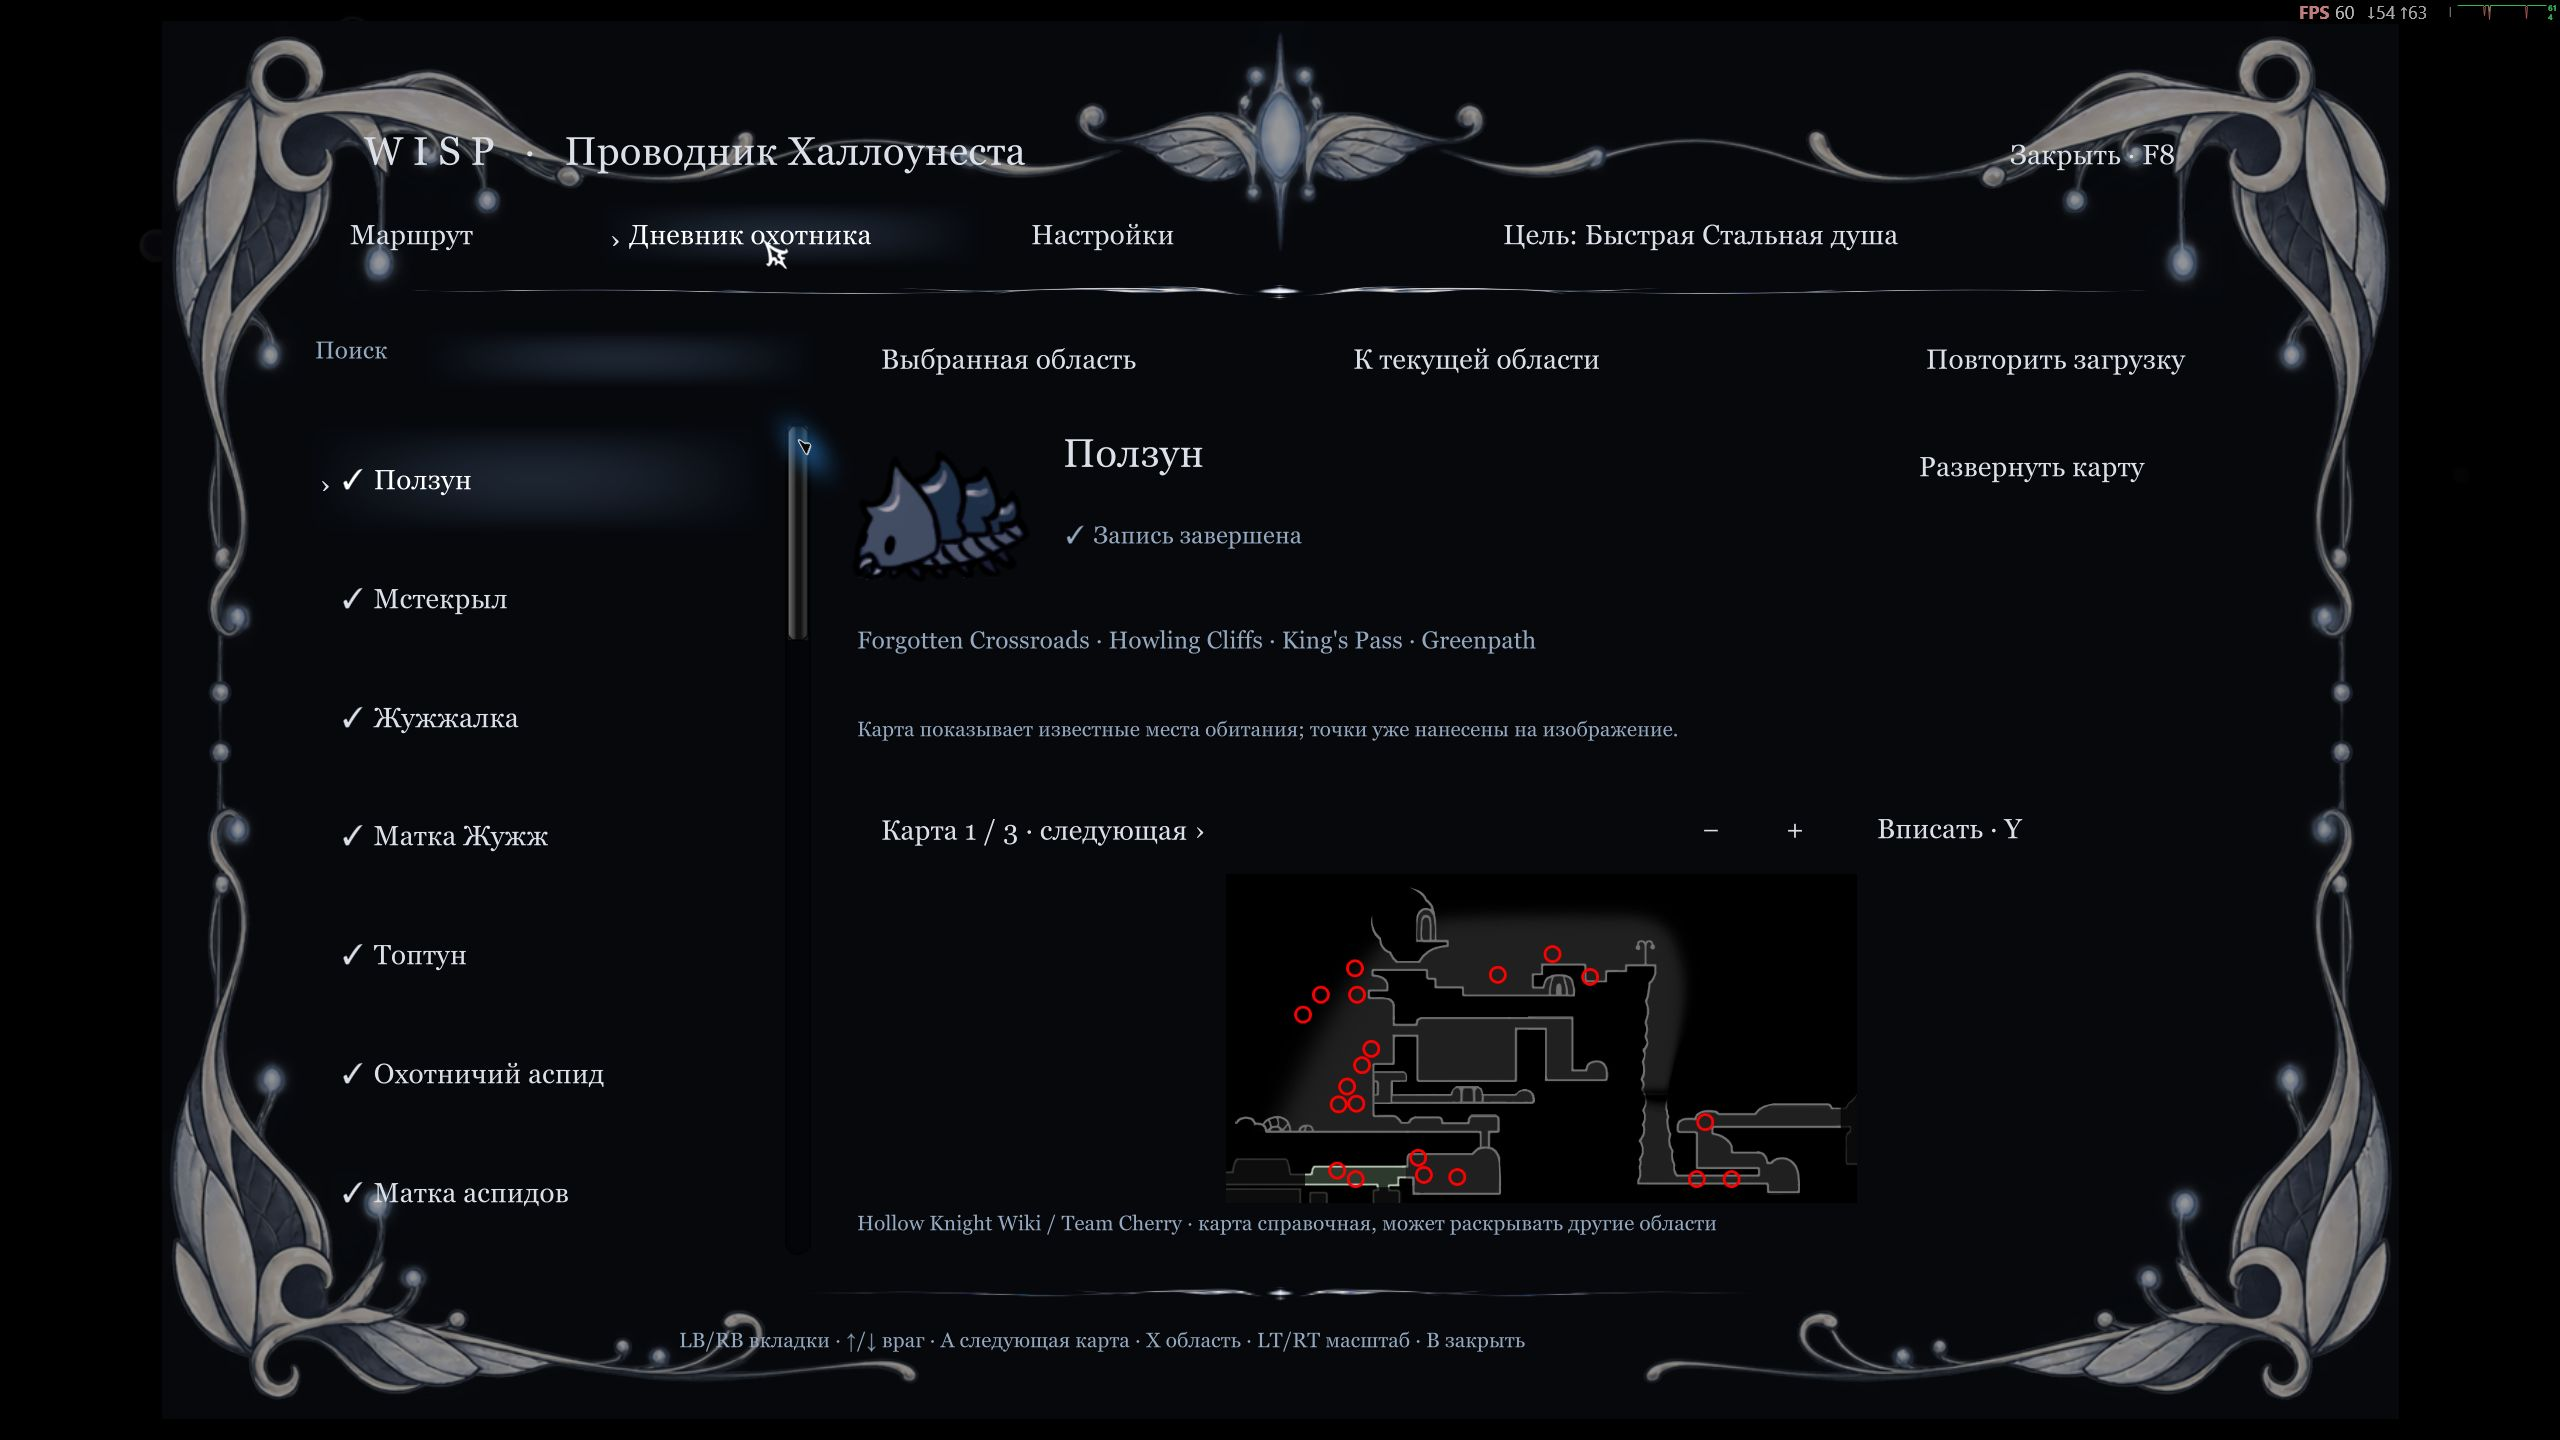
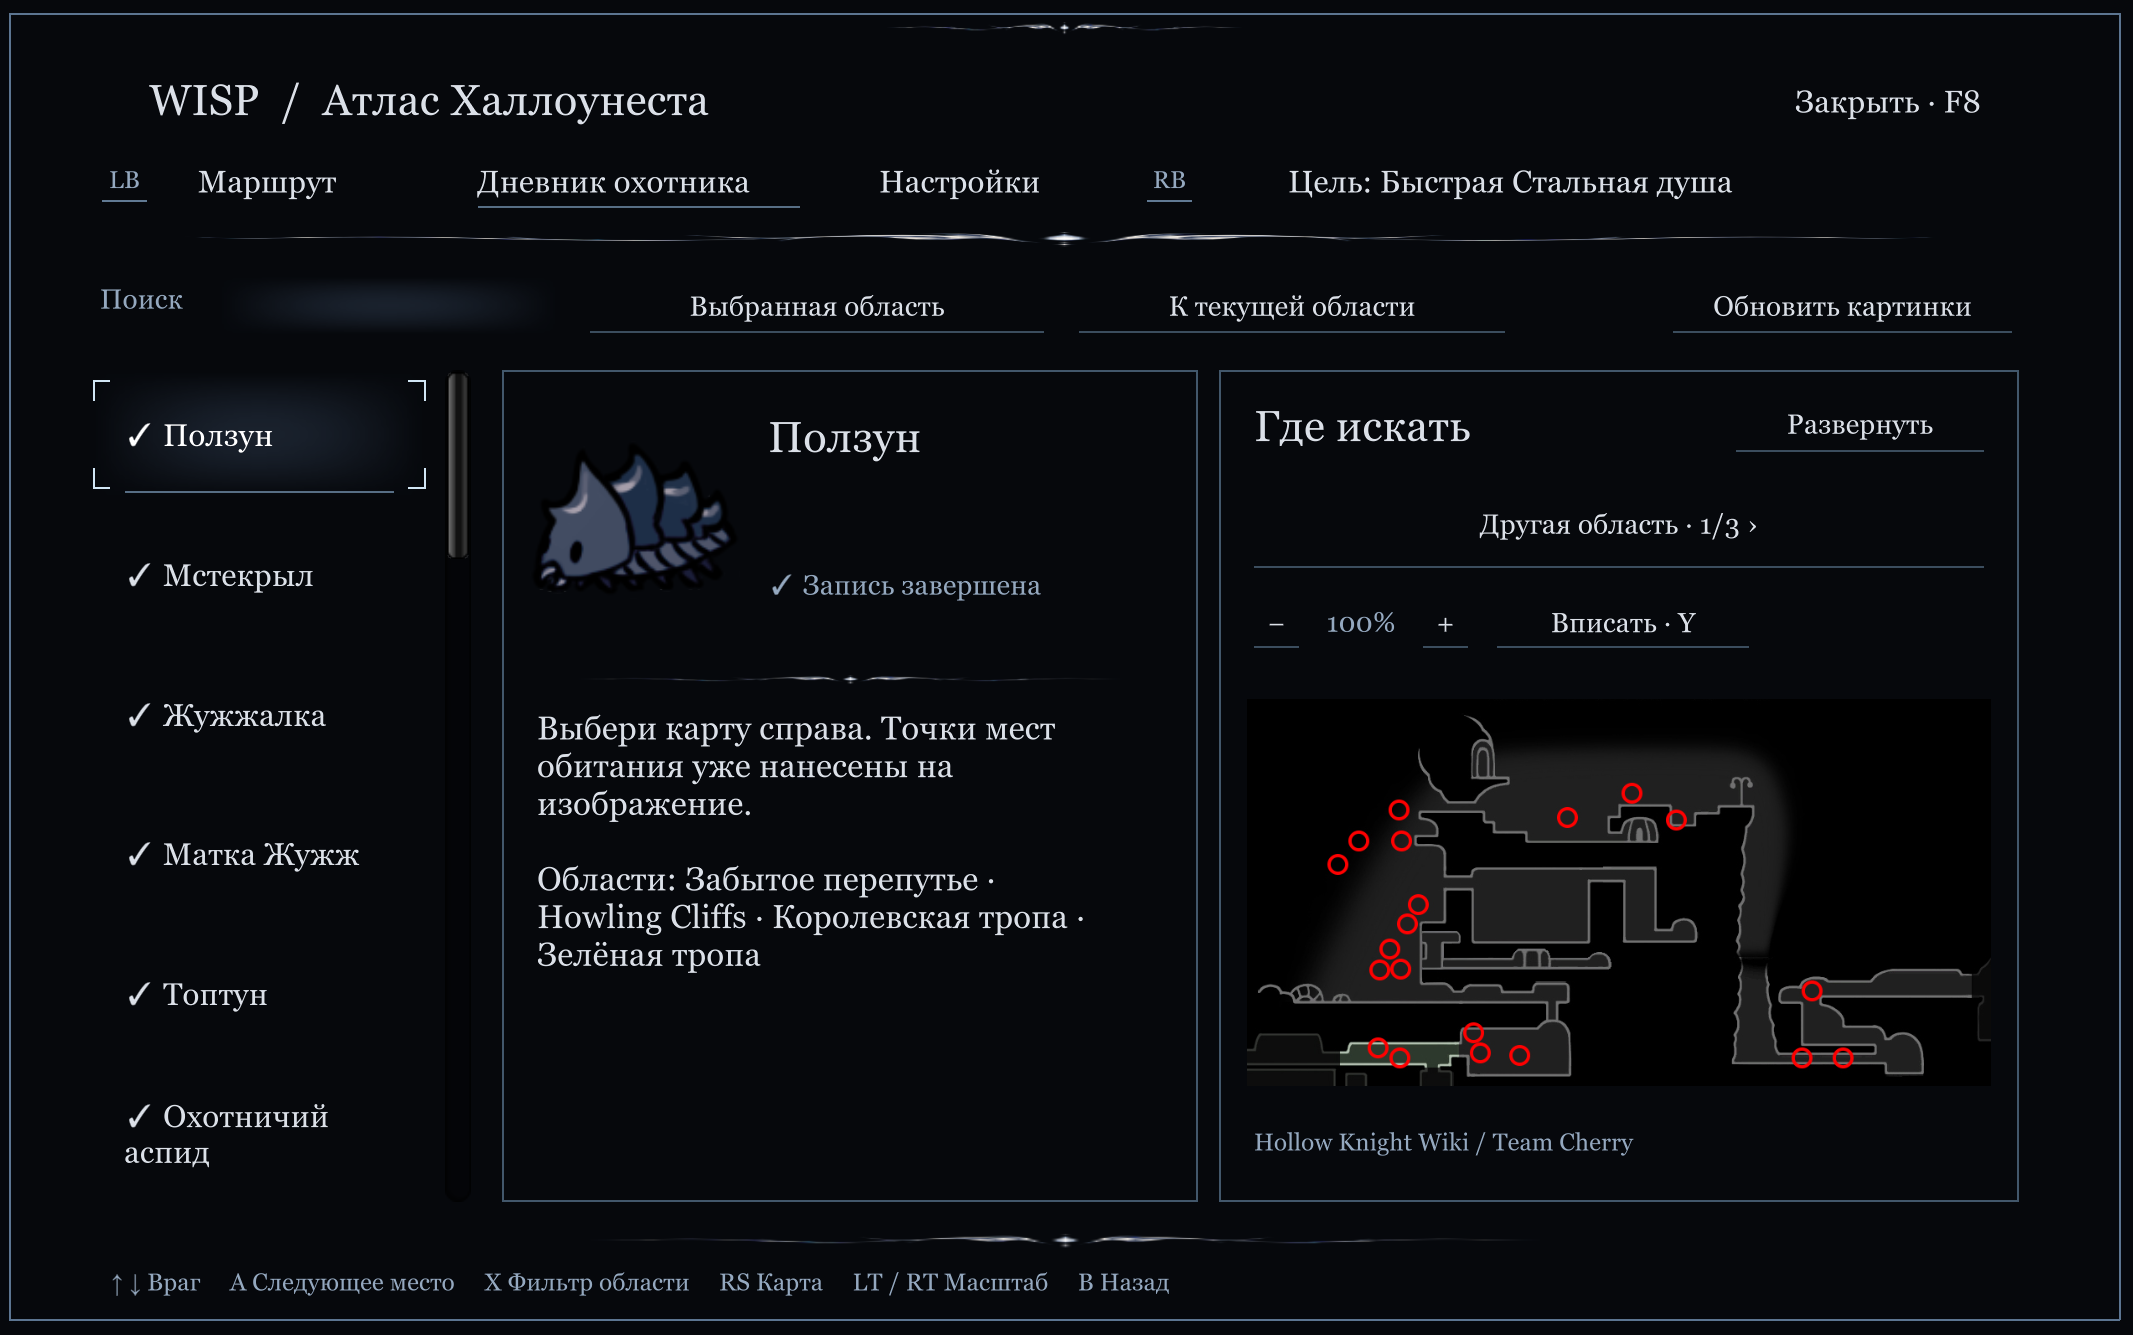
Prepare alpha.2 release with current gameplay screenshots and captions

diff --git a/src/Wisp/WispMod.cs b/src/Wisp/WispMod.cs
@@ -31,7 +31,7 @@ namespace Wisp
             guide.Initialize(this, Catalog.Load());
             patches = new Harmony("com.alexandr-fredrix.wisp");
             patches.PatchAll(typeof(WispMod).Assembly);
-            Logger.LogInfo("Wisp 0.3.0-alpha.1 / Unity 6. F8 or both sticks opens the guide. No input backend changes.");
+            Logger.LogInfo("Wisp 0.3.0-alpha.2 / Unity 6. F8 or both sticks opens the guide. No input backend changes.");
         }
         private T Read<T>(string path) where T : class
         {

diff --git a/README.md b/README.md
@@ -1,9 +1,9 @@
 <h1 align="center">Wisp</h1>
 <p align="center">Твой проводник по Халлоунесту — прямо в игре.</p>
-<p align="center"><a href="https://github.com/Alexandr-Fredrix/Wisp/releases/tag/v0.3.0-alpha.1"><img alt="Последний выпуск" src="https://img.shields.io/badge/Wisp-0.3.0--alpha.1-738fa8"></a></p>
+<p align="center"><a href="https://github.com/Alexandr-Fredrix/Wisp/releases/tag/v0.3.0-alpha.2"><img alt="Последний выпуск" src="https://img.shields.io/badge/Wisp-0.3.0--alpha.2-738fa8"></a></p>
 <p align="center"><a href="https://github.com/Alexandr-Fredrix/Wisp/releases">Скачать</a> · <a href="https://github.com/Alexandr-Fredrix/Wisp/discussions">Обсуждения</a> · <a href="https://github.com/Alexandr-Fredrix/Wisp/issues/new/choose">Сообщить об ошибке</a> · <a href="README.en.md">English</a></p>
 
-**Hollow Knight 1.5.12620 · Windows x64 · BepInEx 5 · ранняя версия 0.3.0-alpha.1**
+**Hollow Knight 1.5.12620 · Windows x64 · BepInEx 5 · ранняя версия 0.3.0-alpha.2**
 
 ## Что умеет
 
@@ -14,25 +14,28 @@
 
 ## В игре
 
-Скриншоты ранней сборки 0.3.0. В текущем обновлении увеличен шрифт и упрощено оформление.
+Скриншоты текущего интерфейса 0.3.0-alpha.2, снятые в игре.
 
-![Маршрут Wisp](docs/images/route.png)
-*Области, шаги и подробное описание — в одном окне. F8 открывает проводник во время игры.*
+![Маршрут: области, шаги и инструкция](docs/images/route.png)
+**Маршрут.** Слева — области и прогресс, в центре — шаги, справа — откуда начать и что сделать. Светлые уголки показывают текущий фокус; подсказки кнопок находятся внизу.
 
-![Дневник охотника](docs/images/journal.png)
-*Портрет врага, прогресс записи и известные места обитания. Карты справочные и могут содержать спойлеры.*
+<details><summary>Карта, дневник и настройки — ещё 3 скриншота</summary>
 
-<details><summary>Компактная подсказка во время игры</summary>
+![Карта области внутри Wisp](docs/images/map.png)
+**Карта.** Приближай и перемещай изображение внутри проводника. Нажатие RS переключает справочную карту и карту сейва. На скриншоте — справочная карта с подготовленным кэшем; она может раскрывать неизученные места.
 
-![Подсказка](docs/images/hud.png)
+![Дневник охотника: Ползун и места обитания](docs/images/journal.png)
+**Дневник охотника.** Портрет, состояние записи и области обитания выбранного врага. Справа — карта с нанесёнными местами, которую можно увеличить или развернуть.
 
-Только следующая задача; подсказку можно выключить.
+![Настройки цели прохождения и подсказок](docs/images/settings.png)
+**Настройки.** Выбирай полный маршрут 112% или короткий путь Стальной души, скрывай спойлеры и завершённые задачи, включай подсказки. Цель маршрута не меняет настоящий режим сохранения.
+
 </details>
 
 ## Установка
 
 1. Один раз установите [BepInEx 5.4.23.5 x64](https://github.com/BepInEx/BepInEx/releases/tag/v5.4.23.5).
-2. Скачайте **Wisp-0.3.0-alpha.1.zip** из [Releases](https://github.com/Alexandr-Fredrix/Wisp/releases) и распакуйте в папку игры.
+2. Скачайте **Wisp-0.3.0-alpha.2.zip** из [Releases](https://github.com/Alexandr-Fredrix/Wisp/releases) и распакуйте в папку игры.
 3. Загрузите сейв и нажмите **F8**.
 
 У самого мода **один устанавливаемый файл — Wisp.dll**. Картинки загружаются в кэш при просмотре; исходники скачивать не нужно. [Подробная инструкция](docs/INSTALL.md).

diff --git a/README.en.md b/README.en.md
@@ -2,17 +2,31 @@
 
 An in-game Hollow Knight guide by **Alex / Alexandr-Fredrix**.
 
-**0.3.0-alpha.1 · Hollow Knight 1.5.12620 · Windows x64 · BepInEx 5.4.23.5**
+**0.3.0-alpha.2 · Hollow Knight 1.5.12620 · Windows x64 · BepInEx 5.4.23.5**
 
 [Download](https://github.com/Alexandr-Fredrix/Wisp/releases) · [Discussions](https://github.com/Alexandr-Fredrix/Wisp/discussions) · [Report a bug](https://github.com/Alexandr-Fredrix/Wisp/issues/new/choose) · [Русский](README.md)
 
 Step-by-step routes, per-save 112% or short Steel Soul goals, save discovery, illustrated Hunter journal, zoomable habitat maps and a compact task HUD. Guide content is currently Russian.
 
-Screenshots show an earlier 0.3.0 development build; the latest layout has larger text and restrained decoration.
+Current 0.3.0-alpha.2 interface, captured in-game.
 
-![Wisp guide](docs/images/route.png)
+![Route and step instructions](docs/images/route.png)
+**Route:** regions, progress and detailed instructions. Silver corners indicate controller focus; contextual button hints appear below.
 
-Install BepInEx 5 x64 once. Extract Wisp-0.3.0-alpha.1.zip into the game directory, then press F8 in a loaded save. Wisp itself is one installed DLL. Images cache on demand. Full regional reference maps currently require a separately prepared cache.
+<details><summary>Map, journal and settings — 3 more screenshots</summary>
+
+![Reference map](docs/images/map.png)
+**Map:** pan and zoom in the guide; press RS to switch map types. This reference image uses a prepared cache and may reveal unexplored areas.
+
+![Hunter journal](docs/images/journal.png)
+**Journal:** enemy portrait, entry progress and habitat locations on a zoomable map.
+
+![Route settings](docs/images/settings.png)
+**Settings:** choose the 112% or short Steel Soul route and toggle spoilers and hints. A route goal does not change the actual save mode.
+
+</details>
+
+Install BepInEx 5 x64 once. Extract Wisp-0.3.0-alpha.2.zip into the game directory, then press F8 in a loaded save. Wisp itself is one installed DLL. Images cache on demand. Full regional reference maps currently require a separately prepared cache.
 
 Experimental pre-release: startup, loaded-save guide and journal tested before the latest changes. The final layout, X-button fix, physical controller and full playthrough remain unverified. Back up your saves first. Four entries have no habitat map. A guide goal does not change the game's actual save mode.
 

diff --git a/docs/releases/0.3.0-alpha.2.md b/docs/releases/0.3.0-alpha.2.md
@@ -1,0 +1,18 @@
+# Wisp 0.3.0-alpha.2
+
+Удобнее навигация с геймпада и актуальные скриншоты в README.
+
+- Фокус отмечен светлыми уголками, открытые пункты — подчёркиванием; убраны большие залитые выделения.
+- Подсказки LB/RB возле вкладок и действия для текущей панели.
+- Карта получает левый стик только при фокусе в её панели. Нажатие RS переключает «Справочную» и «Карту сейва».
+- Знак ? сохраняется у областей без подтверждённого посещения даже при включённых спойлерах.
+- Четыре новых игровых скриншота: маршрут, карта, дневник и настройки.
+
+## Установка
+
+Hollow Knight 1.5.12620 · Windows x64 · BepInEx 5.4.23.5.
+Скачай **Wisp-0.3.0-alpha.2.zip** из Assets и распакуй в папку игры. У Wisp один устанавливаемый файл: `BepInEx/plugins/Wisp/Wisp.dll`. BepInEx ставится отдельно один раз. Source code для установки не нужен.
+
+[Скриншоты и описание](https://github.com/Alexandr-Fredrix/Wisp#в-игре) · [Установка](https://github.com/Alexandr-Fredrix/Wisp/blob/v0.3.0-alpha.2/docs/INSTALL.md) · [Сообщить об ошибке](https://github.com/Alexandr-Fredrix/Wisp/issues/new/choose)
+
+**Экспериментальный Pre-release.** Сборка, 37 проверок ядра и 6 Python-тестов прошли. Полный игровой тест управления и сохранения отметок не завершён. Карта сейва может оставаться пустой; переключение типа карты не устраняет причину. Полные справочные карты областей требуют подготовленного кэша; карты врагов загружаются по запросу. У четырёх записей нет карты. Перед обновлением сохрани копию сейвов.

diff --git a/CHANGELOG.md b/CHANGELOG.md
@@ -1,4 +1,4 @@
-# Unreleased — controller focus
+# 0.3.0-alpha.2 — controller focus
 
 - Keep an unexplored (?) indicator beside chapter progress even when spoilers reveal the name; require visit evidence independently of completed tasks.
 - Press the right stick in the map pane to switch reference/save maps; label the shortcut beside the controls and explain unavailable save maps.
